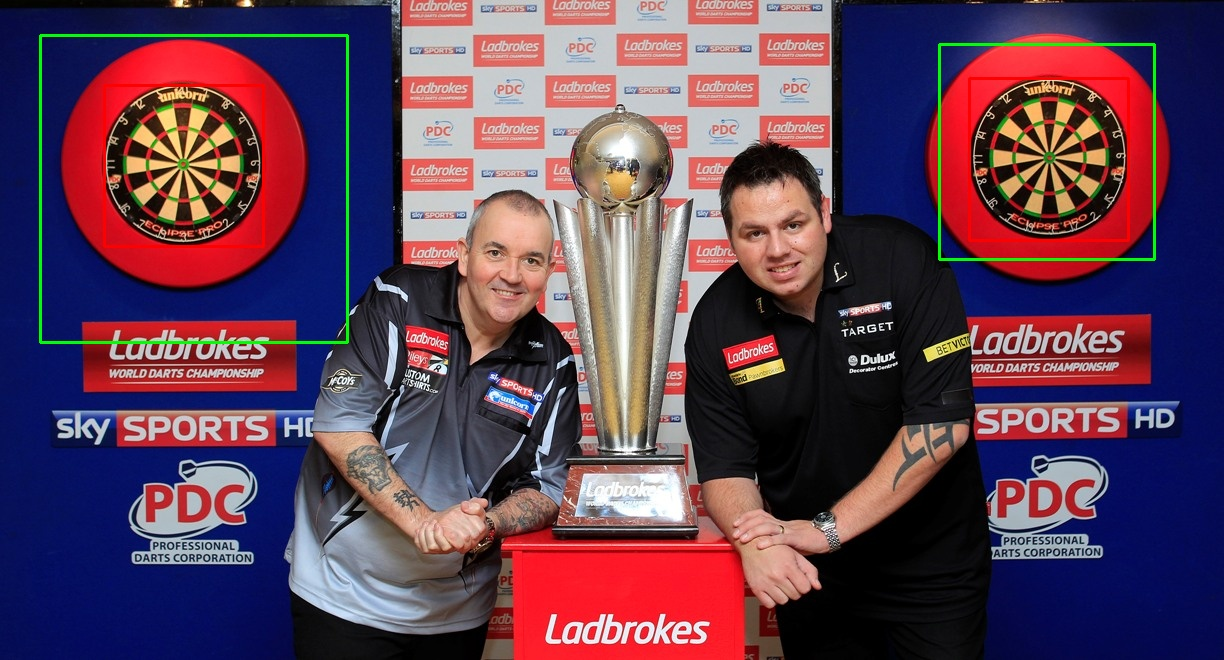
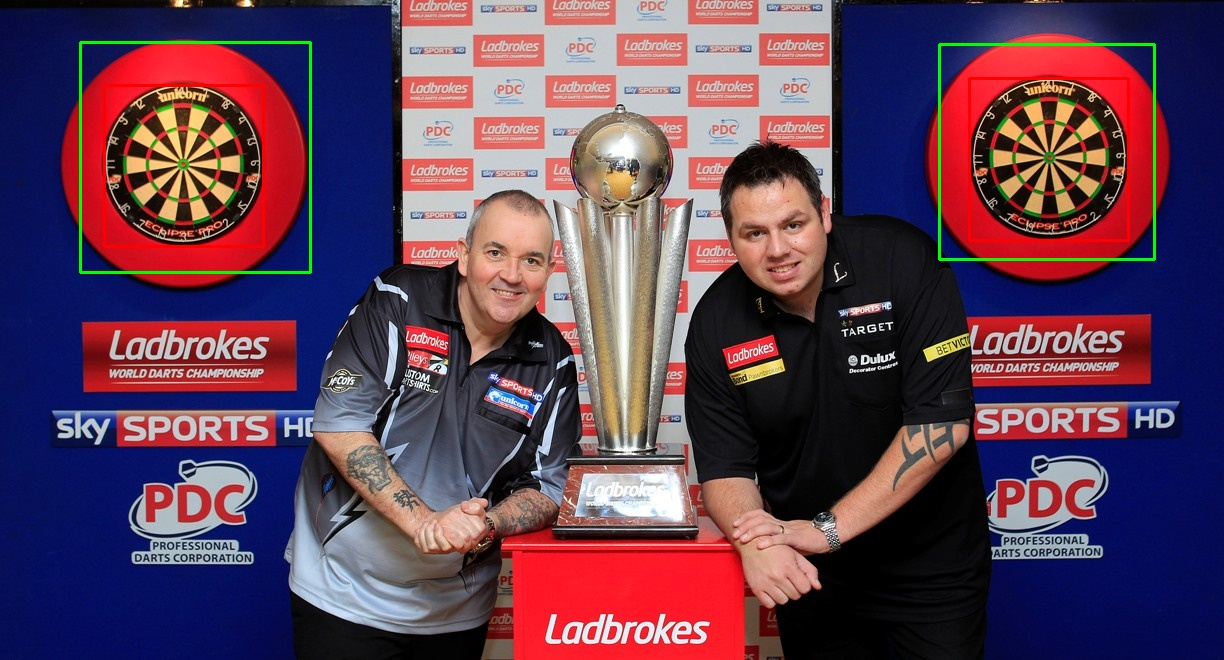
stage 4 done

Changed region(s): [[0.031, 0.0303, 0.3105, 0.5455]]

diff --git a/f1_darts.cpp b/f1_darts.cpp
@@ -58,6 +58,7 @@ int main( int argc, const char** argv ) {
        
 		Mat frame = imread(file, CV_LOAD_IMAGE_COLOR);
 
+
 		// 2. Load the Strong Classifier in a structure called `Cascade'
 		if( !cascade.load( cascade_name ) ){ printf("--(!)Error loading\n"); return -1; };
 
@@ -183,21 +184,57 @@ void detectAndDisplay( Mat frame, string num, string file ) {
 	 * 	   IF OVERLAP, FIND AVERAGE WIDTH AND HEIGHT AND CENTRE OF RECTANGLES AND DRAW A NEW ONE BASED ON THOSE
 	 */ 
 
+	Mat dartboard = imread("dart.bmp", CV_LOAD_IMAGE_COLOR);
+
+	// Rect is defined at (x,y,width,height)
+	std::vector<Rect> found;
+
 	// for( int i = 0; i < faces.size(); i++ ) {
 	// 	int counter = 0;
 	// 	for (int x = faces[i].x; x <= faces[i].x + faces[i].width; x++) {
 	// 		for (int y = faces[i].y; y <= faces[i].y + faces[i].height; y++) {
+	// 			// counts up how many centre pixels are found
+	// 			if (threshLines.at<uchar>(y, x) == 255) {
+	// 				counter++;
+	// 			}
 	// 			if (threshCircles.at<uchar>(y, x) == 255) {
 	// 				counter++;
 	// 			}
 	// 		}
 	// 	}
-	// 	std::cout << counter << std::endl;
-	// 	if (counter >= 20) rectangle(frame, Point(faces[i].x, faces[i].y), Point(faces[i].x + faces[i].width, faces[i].y + faces[i].height), Scalar( 0, 255, 0 ), 2);
-	// }
 
-	// Rect is defined at (x,y,width,height)
-	std::vector<Rect> found;
+	// 	// if above threshold, add to list of rectangles
+	// 	if (counter >= 80) {
+	// 		// check if new rectangle overlaps with any others
+	// 		bool isFound = false;
+	// 		Rect temp;
+	// 		for (int j = 0; j < found.size(); j++) {
+	// 			float iou = findIOU(faces[i], found[j]);
+	// 			// if overlap is found, break out of for loop and remove the rectangle from the vector
+	// 			if (iou > 0) {
+	// 				isFound = true;
+	// 				temp = found[j];
+	// 				found.erase(found.begin() + j);
+	// 				break;
+	// 			}
+	// 		}
+	// 		// if intersecting rectangles found, find new rectangle which is the average of the 2 found
+	// 		if (isFound == true) {
+	// 			int avgX = (temp.x + faces[i].x) / 2;
+	// 			int avgY = (temp.y + faces[i].y) / 2;
+	// 			int avgWidth = (temp.width + faces[i].width) / 2;
+	// 			int avgHeight = (temp.height + faces[i].height) / 2;
+
+	// 			// create new rectangle and push back to vector
+	// 			Rect avg(avgX, avgY, avgWidth, avgHeight);
+	// 			found.push_back(avg);
+	// 		} else {
+	// 			// if no overlap found, simply push back new rectangle into found vector
+	// 			found.push_back(faces[i]);
+	// 		}
+
+	// 	}
+	// }
 
 	for( int i = 0; i < faces.size(); i++ ) {
 		int counter = 0;
@@ -212,7 +249,6 @@ void detectAndDisplay( Mat frame, string num, string file ) {
 				}
 			}
 		}
-		std::cout << counter << std::endl;
 		// if above threshold, add to list of rectangles
 		if (counter >= 80) {
 			// check if new rectangle overlaps with any others
@@ -230,14 +266,55 @@ void detectAndDisplay( Mat frame, string num, string file ) {
 			}
 			// if intersecting rectangles found, find new rectangle which is the average of the 2 found
 			if (isFound == true) {
-				int avgX = (temp.x + faces[i].x) / 2;
-				int avgY = (temp.y + faces[i].y) / 2;
-				int avgWidth = (temp.width + faces[i].width) / 2;
-				int avgHeight = (temp.height + faces[i].height) / 2;
+				vector<Rect> truths = readFile(num);
 
-				// create new rectangle and push back to vector
-				Rect avg(avgX, avgY, avgWidth, avgHeight);
-				found.push_back(avg);
+				Mat cropped = frame(faces[i]);
+				Mat cropped2 = frame(temp);
+
+				imwrite("fkinfalo.jpg", cropped);
+
+				vector<Mat> bgr_planes;
+				vector<Mat> bgr_planes2;
+				vector<Mat> bgr_planes3;
+				split( cropped, bgr_planes );
+				split( cropped2, bgr_planes2 );
+				split( dartboard, bgr_planes3 );
+
+				Mat b_hist1;
+				Mat g_hist1;
+				Mat r_hist1;
+				Mat b_hist2;
+				Mat g_hist2;
+				Mat r_hist2;
+				Mat b_hist3;
+				Mat g_hist3;
+				Mat r_hist3;
+				int histSize = 256;
+				float range[] = { 0, 256 }; //the upper boundary is exclusive
+				const float* histRange = { range };
+
+				cv::calcHist(&bgr_planes[0], 1, 0, cv::Mat(), b_hist1, 1, &histSize, &histRange, true, false );
+				cv::calcHist(&bgr_planes[1], 1, 0, cv::Mat(), g_hist1, 1, &histSize, &histRange, true, false );
+				cv::calcHist(&bgr_planes[2], 1, 0, cv::Mat(), r_hist1, 1, &histSize, &histRange, true, false );
+
+				cv::calcHist(&bgr_planes2[0], 1, 0, cv::Mat(), b_hist2, 1, &histSize, &histRange, true, false );
+				cv::calcHist(&bgr_planes2[1], 1, 0, cv::Mat(), g_hist2, 1, &histSize, &histRange, true, false );
+				cv::calcHist(&bgr_planes2[2], 1, 0, cv::Mat(), r_hist2, 1, &histSize, &histRange, true, false );
+
+				cv::calcHist(&bgr_planes3[0], 1, 0, cv::Mat(), b_hist3, 1, &histSize, &histRange, true, false );
+				cv::calcHist(&bgr_planes3[1], 1, 0, cv::Mat(), g_hist3, 1, &histSize, &histRange, true, false );
+				cv::calcHist(&bgr_planes3[2], 1, 0, cv::Mat(), r_hist3, 1, &histSize, &histRange, true, false );
+
+				double totalHist = compareHist(b_hist1, b_hist3, CV_COMP_CORREL) + compareHist(g_hist1, g_hist3, CV_COMP_CORREL) + compareHist(r_hist1, r_hist3, CV_COMP_CORREL);
+				double totalHist2 = compareHist(b_hist2, b_hist3, CV_COMP_CORREL) + compareHist(g_hist2, g_hist3, CV_COMP_CORREL) + compareHist(r_hist2, r_hist3, CV_COMP_CORREL);
+
+				std::cout << totalHist << std::endl;
+				std::cout << totalHist2 << std::endl;
+				if (totalHist > totalHist2) {
+					found.push_back(faces[i]);
+				} else {
+					found.push_back(temp);
+				}
 			} else {
 				// if no overlap found, simply push back new rectangle into found vector
 				found.push_back(faces[i]);
@@ -252,6 +329,7 @@ void detectAndDisplay( Mat frame, string num, string file ) {
 		for (int x = 0; x < truths.size(); x++) {
 			for (int y = 0; y < found.size(); y++) {
 				float iou = findIOU(found[y], truths[x]);
+				std::cout << iou << std::endl;
 				if (iou > iou_threshold) {
 					true_positives++;
 					break;

diff --git a/hough.h b/hough.h
@@ -110,6 +110,8 @@ void houghMain( std::string imageName ) {
     // thresholding magnitude
     Mat thresh = threshold(mag_gray, 60);
 
+    imwrite("mag_thresh.jpg", thresh);
+
     // finding circles 
     houghCircle(image, thresh, dirSobel, houghSpace, MAXRADIUS-MINRADIUS, MAXRADIUS);
 
